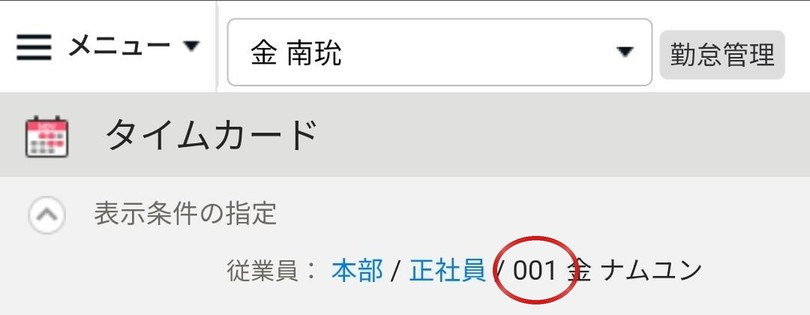
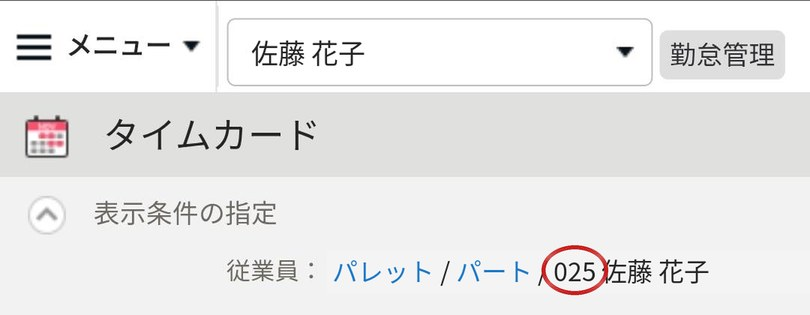
画面の例の名前と番号を「パレット／パート／025 佐藤 花子」に変える
Claude-Session: https://claude.ai/code/session_01EtPft7To447GgaMmzC8yE6

Changed region(s): [[0.4012, 0.7429, 0.8951, 0.9714], [0.3086, 0.1143, 0.463, 0.2286]]

diff --git a/index.html b/index.html
@@ -200,8 +200,8 @@
     <label for="staffNo" data-ko="직원 번호 <span class='help'>フリー勤怠(출근·퇴근을 기록하는 앱)에 적혀 있는 번호입니다(3자리. 예: 025). <br><strong style='color:var(--ng)'>⚠ 번호가 틀리면 다른 사람의 기록이 되어 버립니다.</strong></span>">職員番号 <span class="help">フリー勤怠に書いてある番号です（3桁。例：025）。<br><strong style="color:var(--ng)">⚠ 番号を間違えると、別の人の記録になってしまいます。</strong></span></label>
     <div class="freee-ex">
       <p class="freee-cap" data-ko="예) フリー勤怠 화면">例）フリー勤怠の画面</p>
-      <img src="freee-example.jpg" alt="フリー勤怠の画面。従業員の欄の3桁の番号に赤い丸" style="display:block;width:100%;height:auto;border:1px solid #CFCFCF;border-radius:6px;margin:4px 0;">
-      <p class="freee-cap" data-ko="↑ 빨간 동그라미의 3자리 번호를 입력합니다. (이 예에서는 001)">↑ 赤い丸の3桁の番号を入力します。（この例では 001）</p>
+      <img src="freee-example.jpg?v=2" alt="フリー勤怠の画面。従業員の欄の3桁の番号に赤い丸" style="display:block;width:100%;height:auto;border:1px solid #CFCFCF;border-radius:6px;margin:4px 0;">
+      <p class="freee-cap" data-ko="↑ 빨간 동그라미의 3자리 번호를 입력합니다. (이 예에서는 025)">↑ 赤い丸の3桁の番号を入力します。（この例では 025）</p>
     </div>
     <input type="text" id="staffNo" inputmode="numeric" maxlength="3" autocomplete="off">
     <label for="staffName" data-ko="이름 <span class='help'>한자·가타카나·로마자·한글 등, 무엇이든 괜찮습니다.</span>">氏名 <span class="help">漢字・カタカナ・ローマ字など、どれでもいいです。</span></label>
